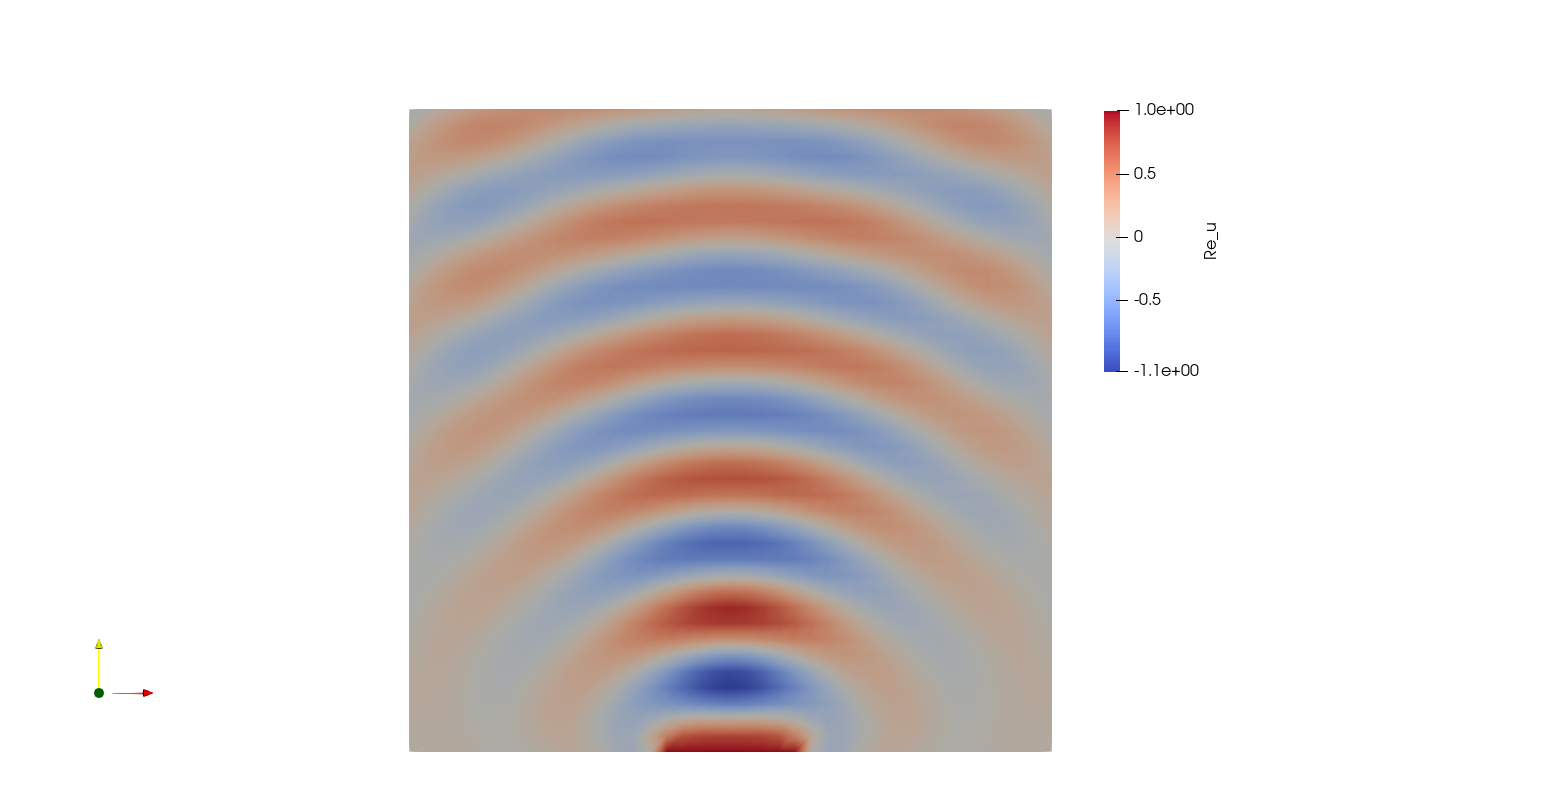
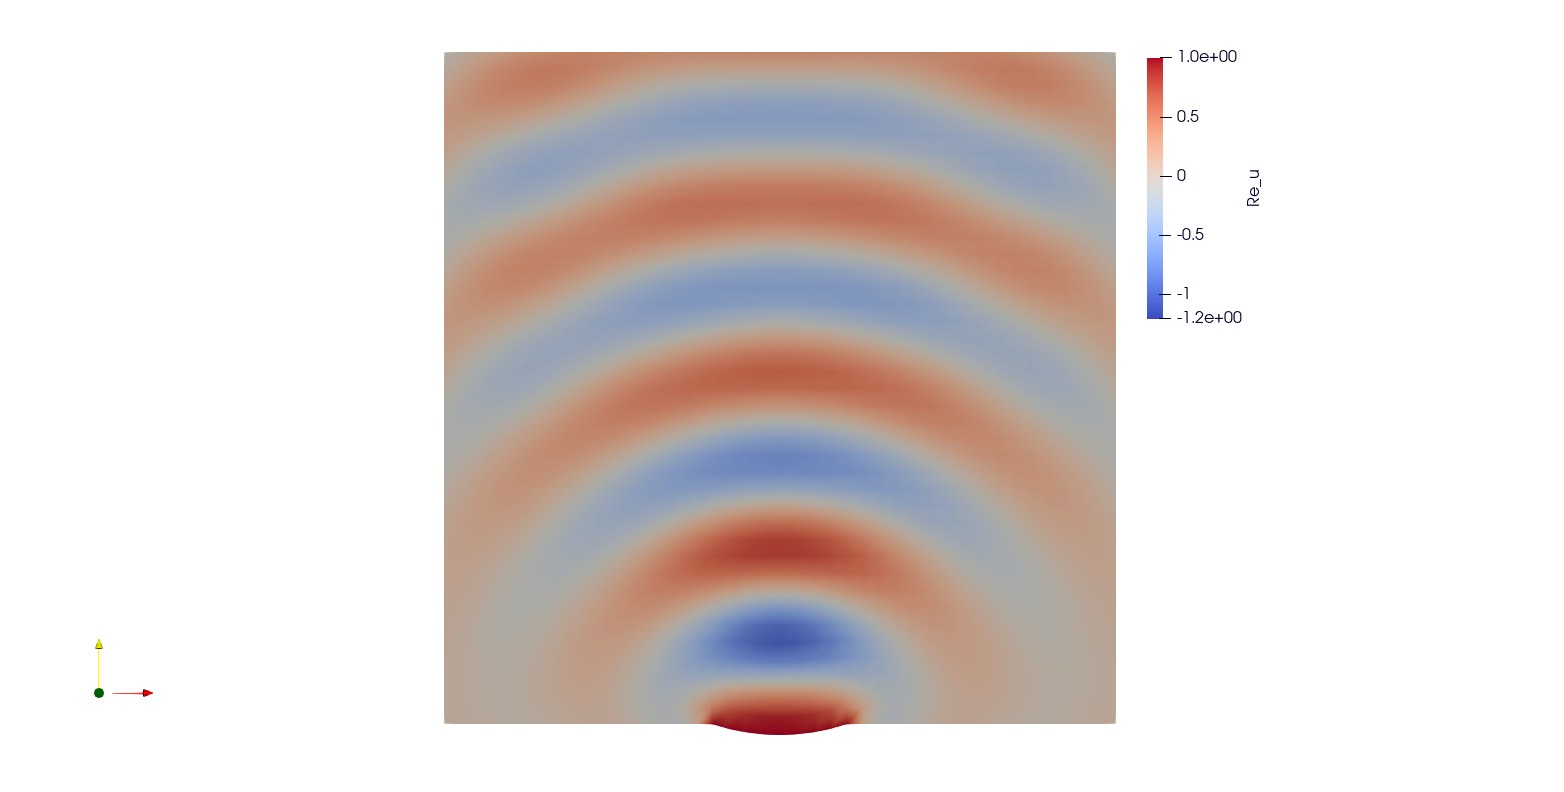
Akustika

Changed region(s): [[0.2455, 0.0606, 0.798, 0.9697]]

diff --git a/akustika/4-socivo.rst b/akustika/4-socivo.rst
@@ -72,11 +72,80 @@
     w=0 \quad \\
     x \in \Gamma_1.
 
-Дакле, прве две једначине важе у целом домену :math:`\Omega`, друге две на граници :math:`\Gamma_2` и последље две на :math:`\Gamma_1`. Овде први пут имамо систем диференцијалних једначина, али ни то не би требало да буде велики проблем за ФЗНН методу, ако подразумевамо да је систем затворен и једнозначан. Пре
+Дакле, прве две једначине важе у целом домену :math:`\Omega`, друге две на граници :math:`\Gamma_2`, а последље две на :math:`\Gamma_1`. Овде први пут имамо систем диференцијалних једначина, али ни то не би требало да буде проблем за ФЗНН методу, ако подразумевамо да је систем затворен, тј. једнозначан. 
 
 
 Имплементација
 -----------------
 
 На основу система једначина :math:numref:`eq:sistem1` треба да формирамо композитну функцију губитка, да формирамо ФЗНМ мрежу и да је истренирамо на довољном броју колокационих тачака. Ево кључних делова имплементације остварене помоћу оквира SCIANN:
+
+.. code-block:: python
+    :caption: Решење проблема простирања таласа у 2Д домену са сочивом
+    :linenos:
+
+    import numpy as np
+    import matplotlib.pyplot as plt 
+    import sciann as sn
+    from numpy import pi
+    from sciann.utils.math import diff, sign, sin, sqrt
+
+    # Brzina talasa
+    c = 1
+    # Frekvencija
+    omega = 2*pi*4
+
+    x = sn.Variable('x')
+    y = sn.Variable('y')
+    v, w = sn.Functional (["v", "w"], [x, y], 3*[200] , 'sin')
+
+    # Diferencijalne jednacine za v i w
+    L1 = -omega**2 * v - c**2 * diff(v, x, order=2) - c**2 * diff(v, y, order=2) 
+    L2 = -omega**2 * w - c**2 * diff(w, x, order=2) - c**2 * diff(w, y, order=2)
+
+    TOL = 0.015
+
+    # Dirihleov uslov na G1 (y=0 i 0.4<x<0.6)
+    a,b,c,d =  0.39762422, -1.57715550, -0.03696364,  1.60337246
+    C1 = (1 - sign(y - (a + b*x + c*sqrt(x) + d*x**2 + TOL))) * (1 + sign(x-0.4)) * (1 - sign(x-0.6)) * (1-v) 
+    C2 = (1 - sign(y - (a + b*x + c*sqrt(x) + d*x**2 + TOL))) * (1 + sign(x-0.4)) * (1 - sign(x-0.6)) * (w-0)
+
+    # Gornja granica G2 (gde je y=1)
+    C3 =  (1+sign(y - (1-TOL))) * ( c*diff(v,y) - omega*w )
+    C4 =  (1+sign(y - (1-TOL))) * ( c*diff(w,y) + omega*v )
+
+    # Desna granica G2 (gde je x=1)
+    C5 =  (1+sign(x - (1-TOL))) * ( c*diff(v,x) - omega*w )
+    C6 =  (1+sign(x - (1-TOL))) * ( c*diff(w,x) + omega*v )
+
+    # Leva granica G2 (gde je x=0)
+    C7 =  (1-sign(x - (0+TOL))) * ( -c*diff(v,x) - omega*w )
+    C8 =  (1-sign(x - (0+TOL))) * ( -c*diff(w,x) + omega*v )
+
+    # Donja granica G2 (gde je y=0) i (x<0.4 or x>0.6)
+    C9 =   (1-sign(y - (0+TOL))) * ( (1 - sign(x-0.4)) + (1 + sign(x-0.6)) ) * ( -c*diff(v,y) - omega*w )
+    C10 =  (1-sign(y - (0+TOL))) * ( (1 - sign(x-0.4)) + (1 + sign(x-0.6)) ) * ( -c*diff(w,y) + omega*v )
+
+    x_data, y_data = [], []
+
+    kolokacione_tacke = np.genfromtxt('kolokacione_tacke.txt', delimiter=" ")
+
+    for e in kolokacione_tacke:
+        ind, x1, y1 = e
+        x_data.append(x1)
+        y_data.append(y1)
+
+    x_data, y_data = np.array(x_data), np.array(y_data)
+
+    # Model i obucavanje
+    m = sn.SciModel([x, y], [L1,L2,C1,C2,C3,C4,C5,C6,C7,C8,C9,C10], 'mse', 'Adam')
+    h = m.train([x_data, y_data], 12*['zero'], learning_rate=0.001, batch_size=1024, epochs=8000, adaptive_weights={'method':'NTK', 'freq':200})
+
+    # Test
+    x_test, y_test = np.meshgrid(
+        np.linspace(0, 1, 200), 
+        np.linspace(0, 1, 200)
+    )
+    v_pred = v.eval(m, [x_test, y_test])
+    w_pred = w.eval(m, [x_test, y_test])
 
